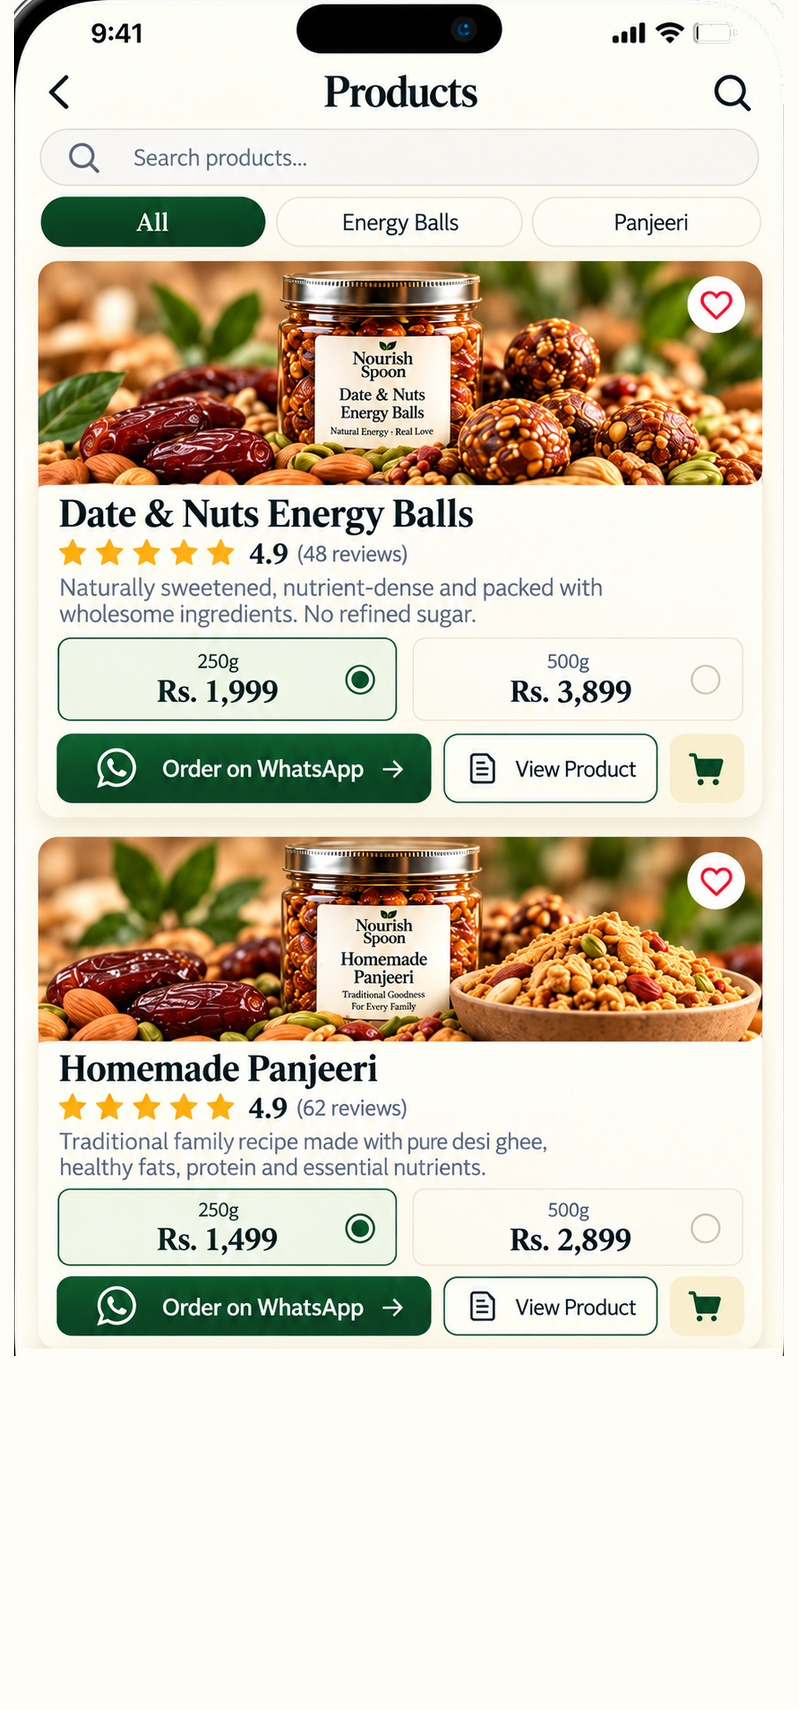
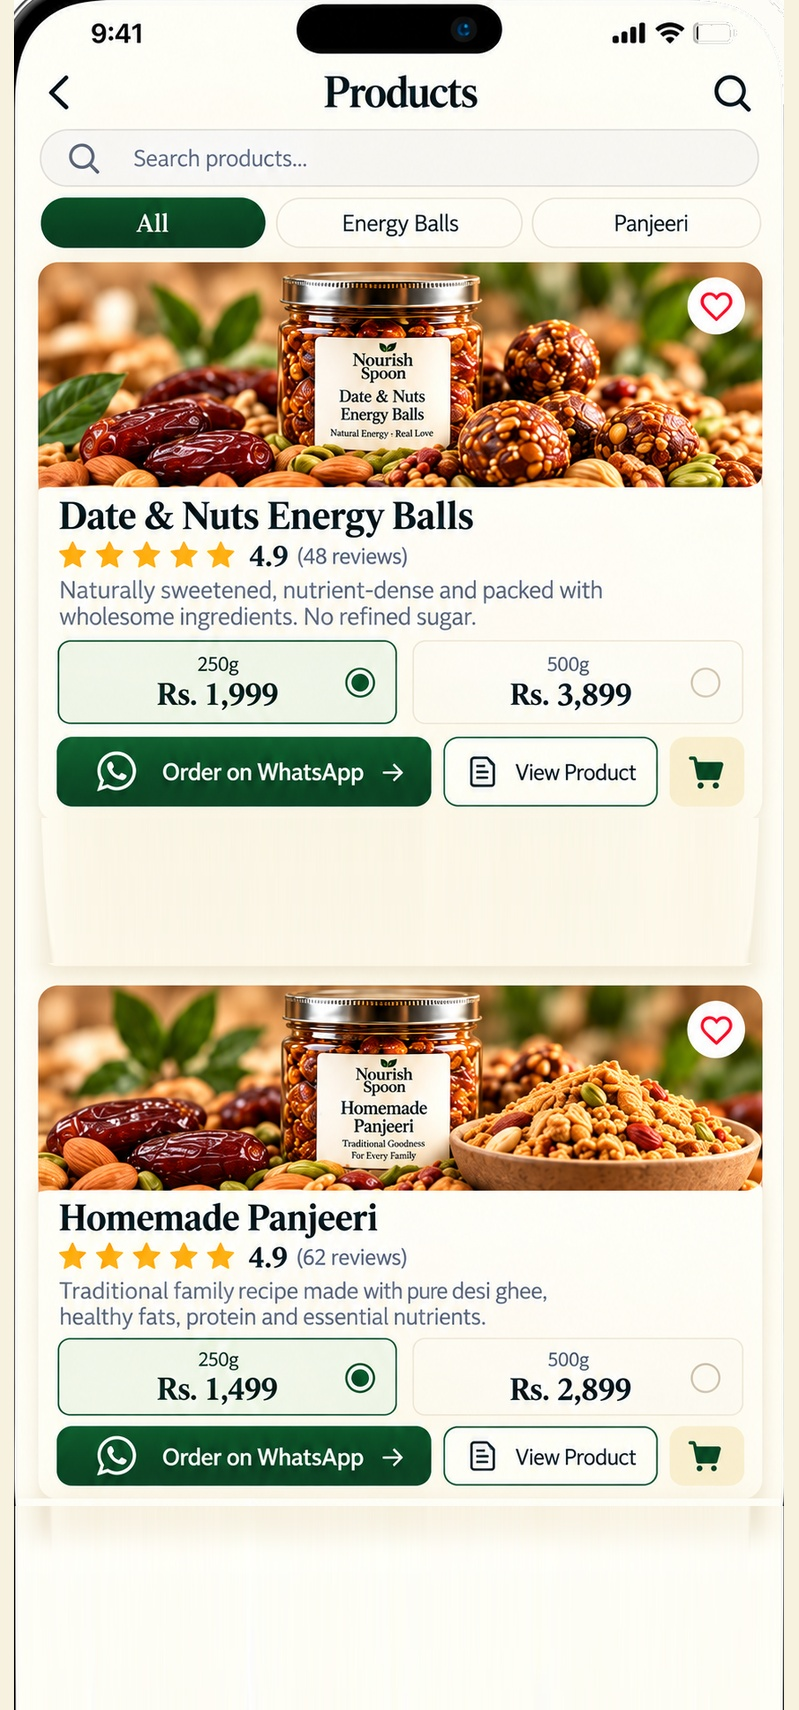
fix: tighten Products layout, card 2 sits just above the tab bar

diff --git a/src/features/products/ShopScreen.tsx b/src/features/products/ShopScreen.tsx
@@ -165,35 +165,35 @@ const styles = StyleSheet.create({
   },
   card2Zone: {
     position: 'absolute',
-    top: '49.5%',
+    top: '56%',
     left: '4%',
     width: '92%',
-    height: '23%',
+    height: '26%',
   },
   heart2Zone: {
     position: 'absolute',
-    top: '49.5%',
+    top: '56%',
     left: '86.5%',
     width: '8.5%',
     height: '6%',
   },
   wa2Zone: {
     position: 'absolute',
-    top: '73.5%',
+    top: '83.5%',
     left: '6%',
     width: '54%',
     height: '3.5%',
   },
   view2Zone: {
     position: 'absolute',
-    top: '73.5%',
+    top: '83.5%',
     left: '62.5%',
     width: '22.5%',
     height: '3.5%',
   },
   cart2Zone: {
     position: 'absolute',
-    top: '73.5%',
+    top: '83.5%',
     left: '87.5%',
     width: '7%',
     height: '3.5%',
